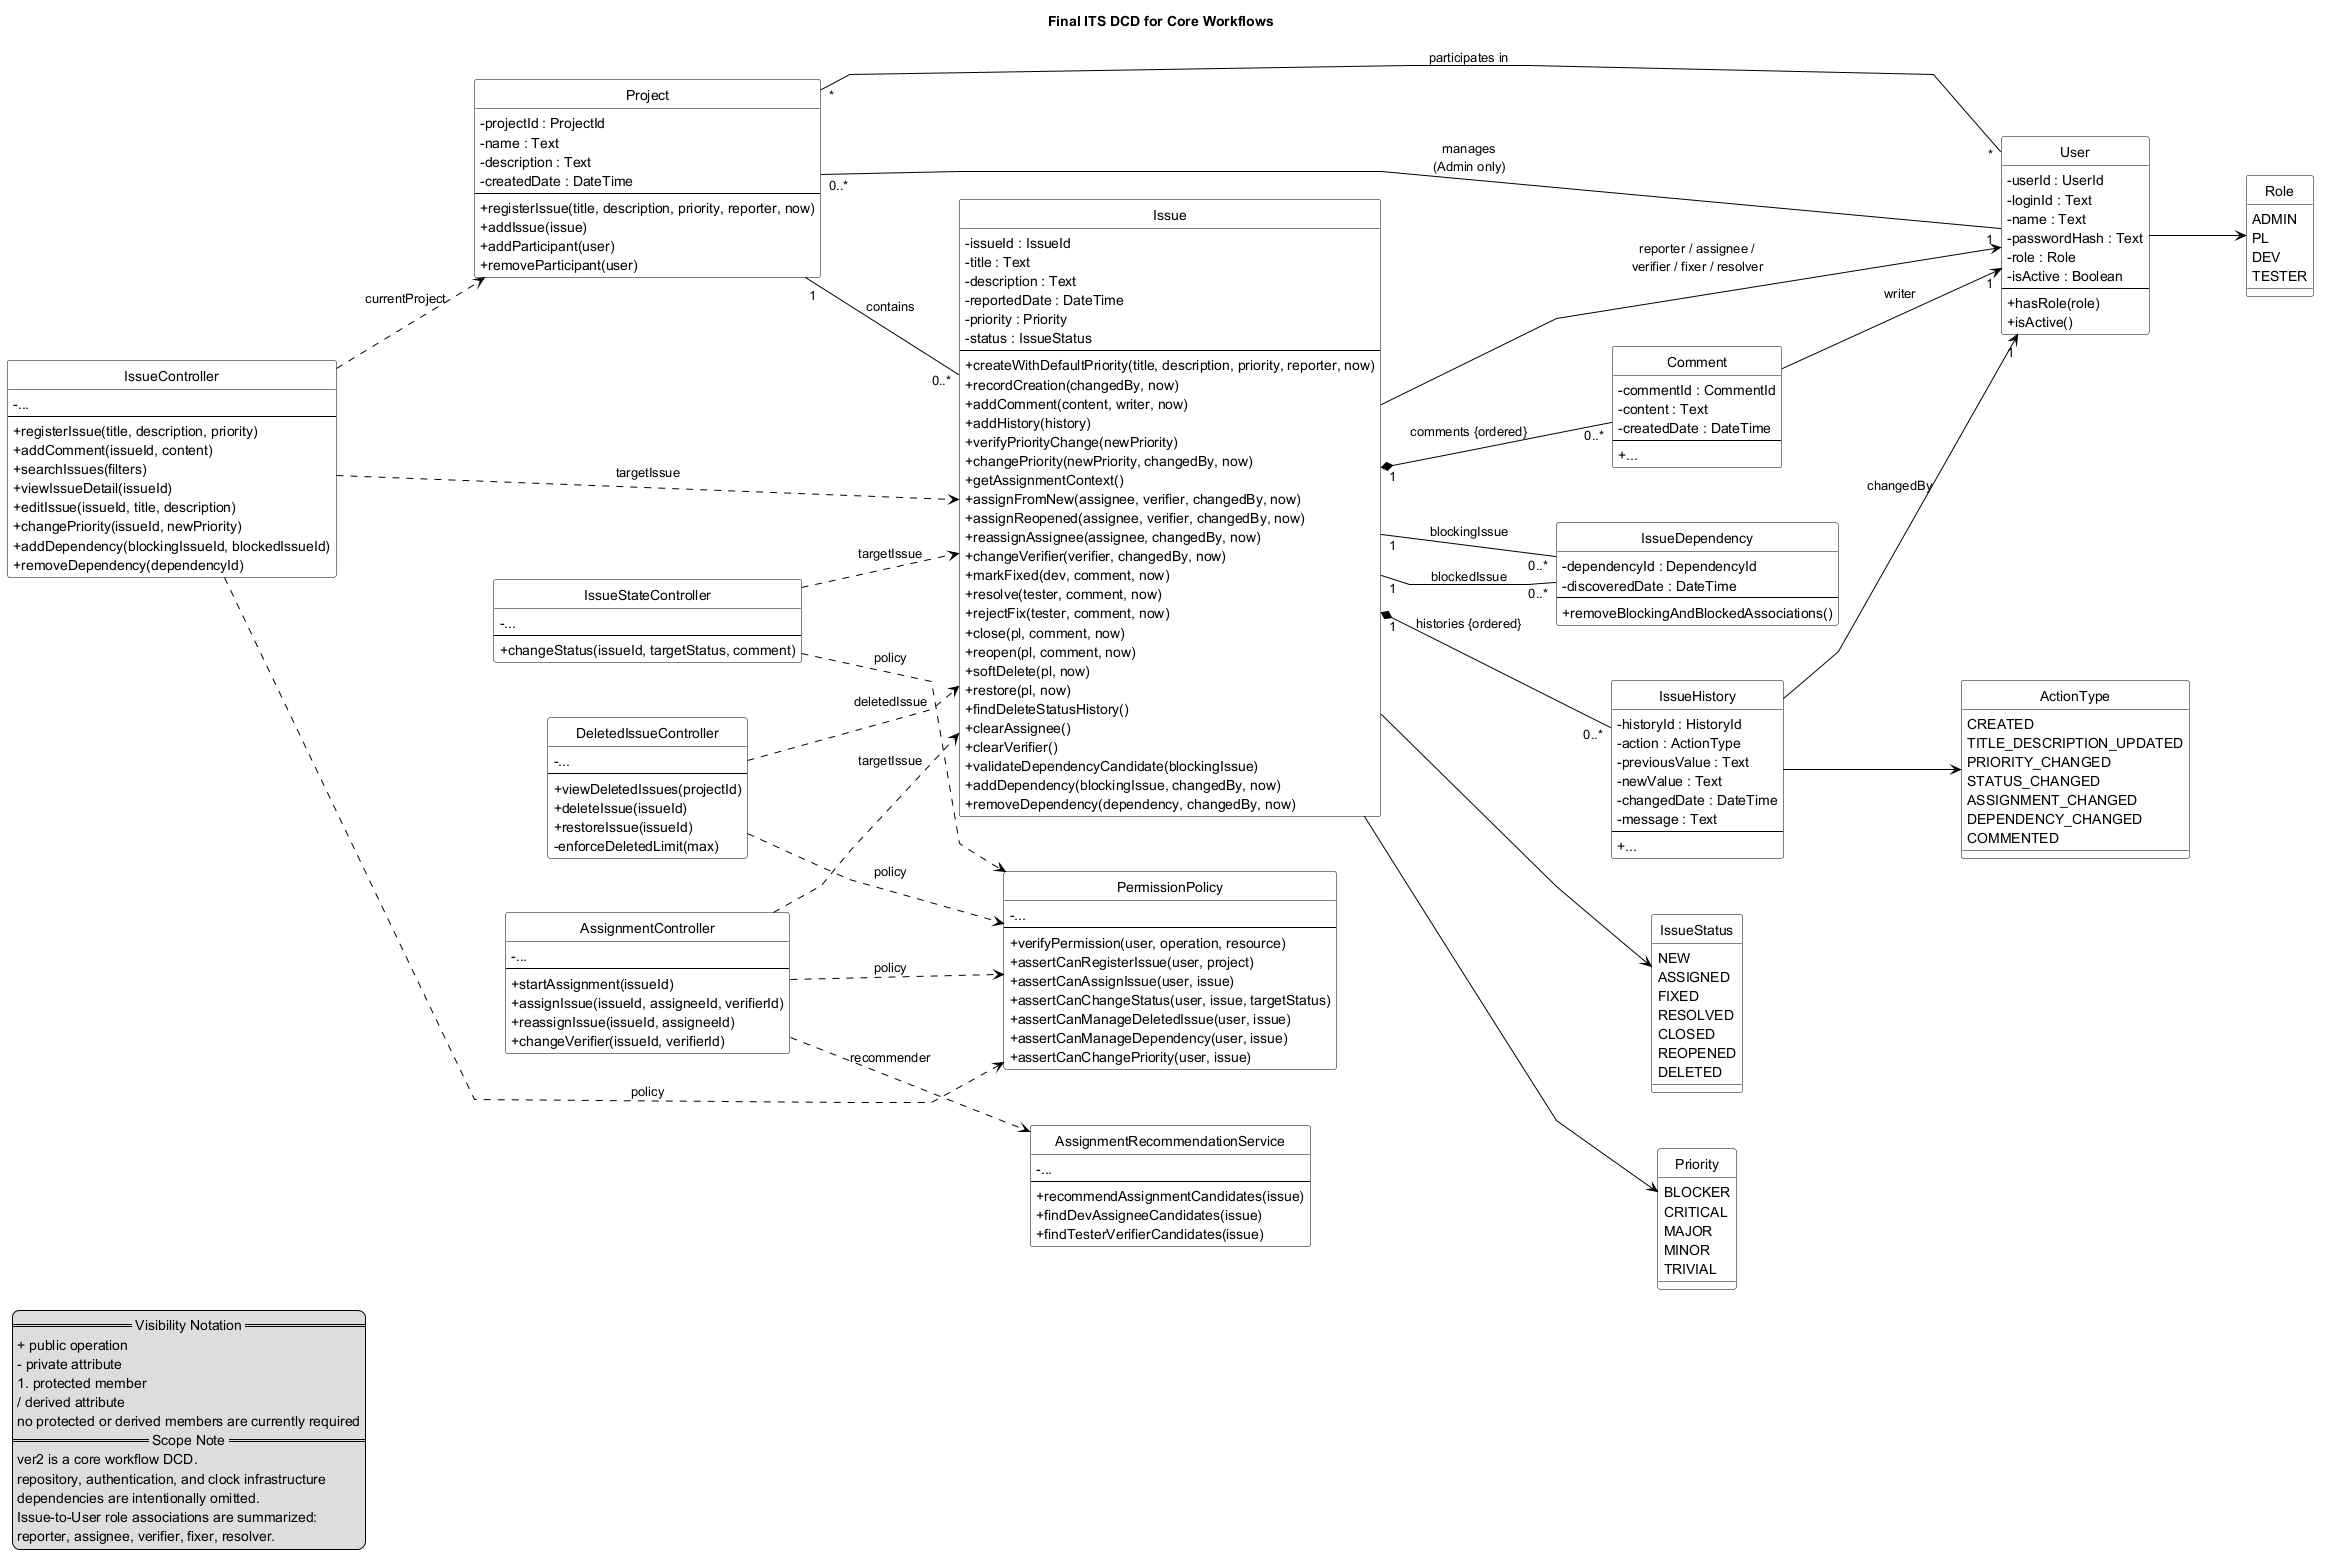
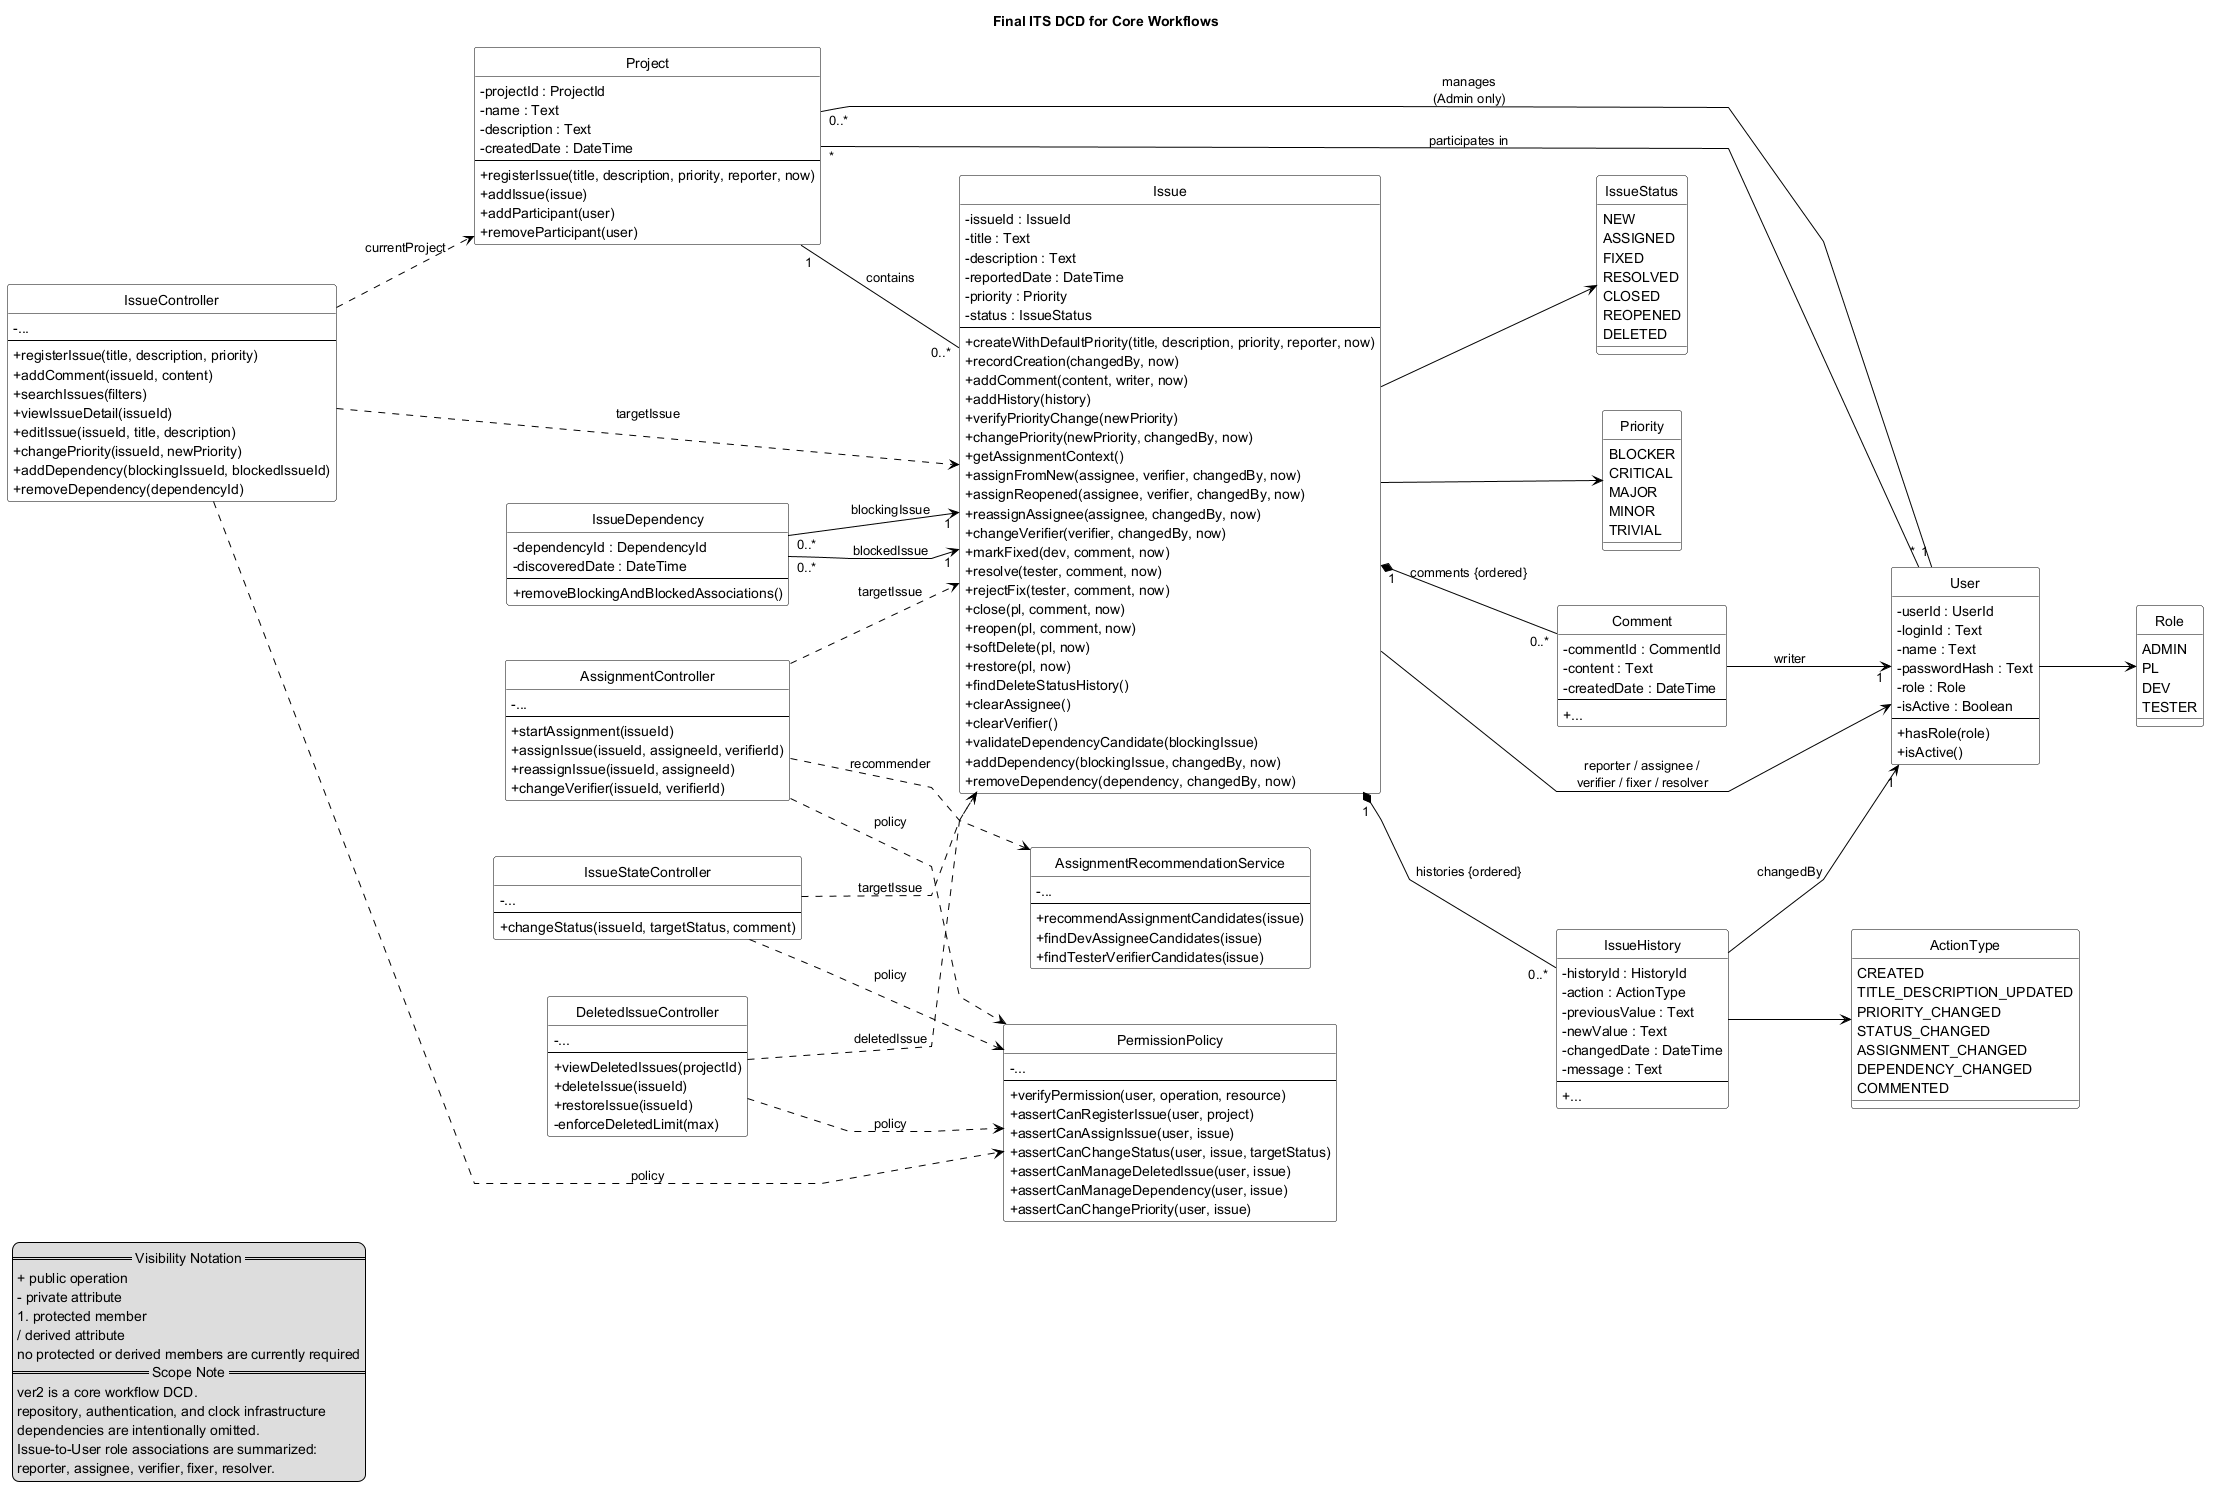
DCD puml 약간 수정

diff --git a/docs/dcd/its_dcd_ver1.md b/docs/dcd/its_dcd_ver1.md
@@ -35,7 +35,7 @@ SSD의 system operation을 use case 성격별 controller에 배치했다.
 - `IssueStateController`: UC6 상태 전이
 - `DeletedIssueController`: UC9 삭제/복구/보관 한도 정리
 - `StatisticsController`: UC10 통계 조회
-- `AccountController`: UC12 계정 생성/수정/비활성화
+- `AccountController`: UC12 계정 생성/수정/비활성화, 로그인
 - `ProjectController`: UC13 프로젝트 생성/참여자 관리
 
 ### Information Expert